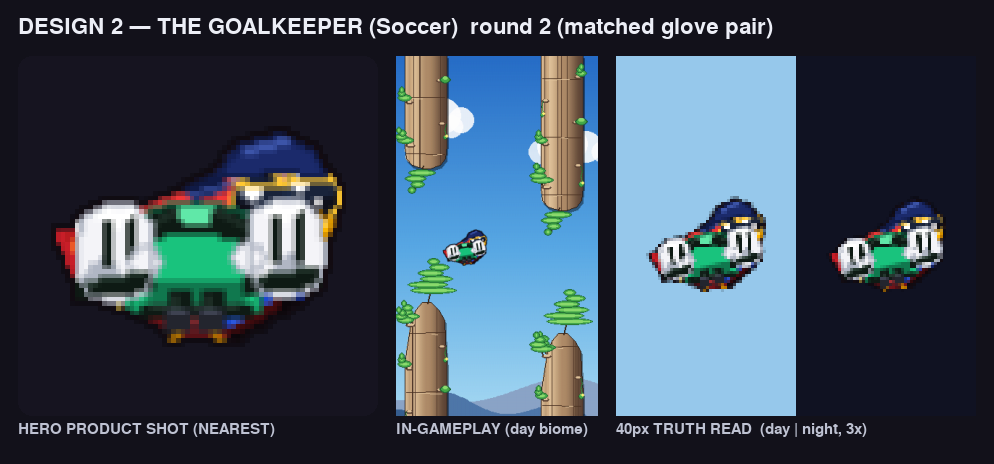
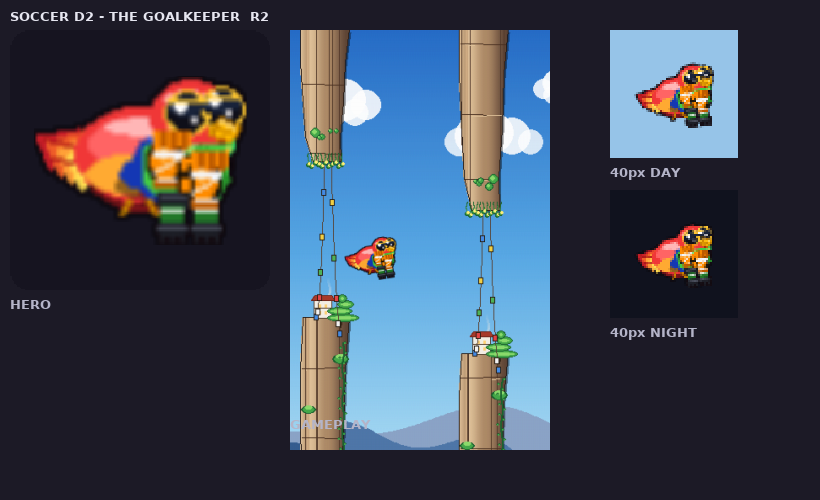
Soccer D2 Goalkeeper R2: smaller asymmetric gloves, finger def, knuckle accent
Claude-Session: https://claude.ai/code/session_01HafGQfRZVDiGkQqpJPr5Cm

diff --git a/tools/soccer_candidates/design_2.py b/tools/soccer_candidates/design_2.py
@@ -26,11 +26,14 @@ _GK_JERSEY   = (68, 204, 68)       # #44CC44 hi-vis lime field
 _GK_JERSEY_D = (40, 150, 44)       # shaded off-side
 _GK_JERSEY_H = (138, 232, 120)     # collar / top sheen
 
-# Goalkeeper gloves — bright safety orange, the HERO read.
+# Goalkeeper gloves — bright safety orange, the HERO read. A white knuckle band
+# + cross-strap carry a value break that survives the 40px downscale and keeps
+# the mitts legible even at night when orange sits on scarlet.
 _GK_GLOVE    = (255, 140, 0)       # #FF8C00 padded mitt body
 _GK_GLOVE_H  = (255, 192, 98)      # padding highlight
 _GK_GLOVE_D  = (188, 90, 0)        # finger-gap / crease shade
 _GK_HALO     = (26, 18, 10)        # dark contour halo so the orange pops
+_GK_STRAP    = (244, 246, 250)     # white knuckle band + cross-strap accent
 
 # Shorts + boots — near-black kit darks.
 _GK_DARK     = (30, 32, 40)        # shorts band + boots
@@ -79,37 +82,49 @@ def _paint(surf, _a):
             pygame.draw.line(surf, _GK_DARK, (tx, HY + 35), (tx, HY + 36), 1)
 
     # ── GOALKEEPER GLOVES — the HERO, drawn LAST so they sit in front of the
-    #    jersey. One oversized orange padded mitt riding each wing-hand, big and
-    #    bold so they're the dominant lower-silhouette mass at 40px. A dark halo
-    #    rings each so the orange separates cleanly from the lime jersey and the
-    #    night sky alike.
-    for gx in (HX - 14, HX + 10):
-        cx, cy = gx, HY + 17           # centred on each wing root (HY+14..22)
+    #    jersey. Two SMALLER mitts (≈10×12 logical, down ~35% from v1) pulled
+    #    INWARD so they ride ON the green jersey, never on the macaw's own orange
+    #    tail/wing where they'd vanish. They're ASYMMETRIC — the far mitt is
+    #    raised into a catching pose and the near mitt sits lower — so the
+    #    silhouette reads as two distinct hands rather than one pair of wings.
+    #    A white knuckle band + cross-strap on each gives a value break that the
+    #    downscale keeps even when orange would otherwise disappear on scarlet.
+    #
+    #    (cx, cy, thumb-on-inner-left?): far glove high, near glove low.
+    for cx, cy, thumb_left in ((HX - 7, HY + 12, False), (HX + 4, HY + 18, True)):
         # Dark contour halo — a slightly larger mitt behind so the orange always
         # carries a black edge against any background.
-        pygame.draw.ellipse(surf, _GK_HALO, (cx - 7, cy - 8, 15, 18))
-        # Fat padded palm — the main orange mass.
-        pygame.draw.ellipse(surf, _GK_GLOVE, (cx - 6, cy - 7, 13, 16))
-        # Four blunt finger pads riding the top so it reads as a mitt, not a
-        # ball; dark gaps between them carve the fingers.
-        for i, fxo in enumerate((-5, -2, 1, 4)):
-            pygame.draw.rect(surf, _GK_GLOVE, (cx + fxo, cy - 9, 3, 6),
+        pygame.draw.ellipse(surf, _GK_HALO, (cx - 6, cy - 6, 11, 14))
+        # Fat padded palm — the main orange mass, now compact.
+        pygame.draw.ellipse(surf, _GK_GLOVE, (cx - 5, cy - 5, 9, 12))
+        # Four blunt finger pads riding the top with a 2px dark channel between
+        # each so the fingers stay carved and readable at gameplay scale.
+        for i, fxo in enumerate((-4, -1, 2, 5)):
+            pygame.draw.rect(surf, _GK_GLOVE, (cx + fxo, cy - 8, 2, 5),
                              border_radius=1)
             if i:
-                pygame.draw.line(surf, _GK_GLOVE_D, (cx + fxo - 1, cy - 9),
-                                 (cx + fxo - 1, cy - 4), 1)
-        # Stubby thumb on the inner side.
-        pygame.draw.ellipse(surf, _GK_GLOVE, (cx - 8, cy - 2, 5, 7))
-        pygame.draw.ellipse(surf, _GK_HALO, (cx - 8, cy - 2, 5, 7), 1)
-        # Padding highlight + a dark crease so the mitt reads as round, padded
-        # leather rather than a flat orange disc.
-        pygame.draw.ellipse(surf, _GK_GLOVE_H, (cx - 4, cy - 5, 6, 6))
-        pygame.draw.arc(surf, _GK_GLOVE_D, (cx - 6, cy - 4, 13, 13),
-                        3.6, 5.9, 2)
+                pygame.draw.line(surf, _GK_GLOVE_D, (cx + fxo - 1, cy - 8),
+                                 (cx + fxo - 1, cy - 3), 2)
+        # Exaggerated thumb — a clear side nub on the inner edge so the mitt
+        # silhouette reads as 4-fingers + thumb, not a plain disc.
+        if thumb_left:
+            pygame.draw.ellipse(surf, _GK_GLOVE, (cx - 8, cy - 1, 5, 6))
+            pygame.draw.ellipse(surf, _GK_HALO, (cx - 8, cy - 1, 5, 6), 1)
+        else:
+            pygame.draw.ellipse(surf, _GK_GLOVE, (cx + 3, cy - 1, 5, 6))
+            pygame.draw.ellipse(surf, _GK_HALO, (cx + 3, cy - 1, 5, 6), 1)
+        # Padding highlight so the mitt reads as round, padded leather.
+        pygame.draw.ellipse(surf, _GK_GLOVE_H, (cx - 3, cy - 3, 4, 4))
+        # White knuckle-guard band across the top of the palm — the bright value
+        # break that the 40px downscale keeps on day and night alike.
+        pygame.draw.line(surf, _GK_STRAP, (cx - 4, cy - 2), (cx + 4, cy - 2), 2)
+        # White cross-strap diagonally over the palm — second value break, makes
+        # the orange mass read unmistakably as a glove.
+        pygame.draw.line(surf, _GK_STRAP, (cx - 4, cy + 4), (cx + 4, cy - 1), 1)
         # Wrist cuff strap so the glove anchors to the wing.
-        pygame.draw.rect(surf, _GK_GLOVE_D, (cx - 6, cy + 7, 12, 3),
+        pygame.draw.rect(surf, _GK_GLOVE_D, (cx - 4, cy + 6, 8, 3),
                          border_radius=1)
-        pygame.draw.line(surf, _GK_GLOVE_H, (cx - 5, cy + 7), (cx + 5, cy + 7), 1)
+        pygame.draw.line(surf, _GK_STRAP, (cx - 3, cy + 6), (cx + 3, cy + 6), 1)
 
 
 build = store_skins._make_skin(_paint)
